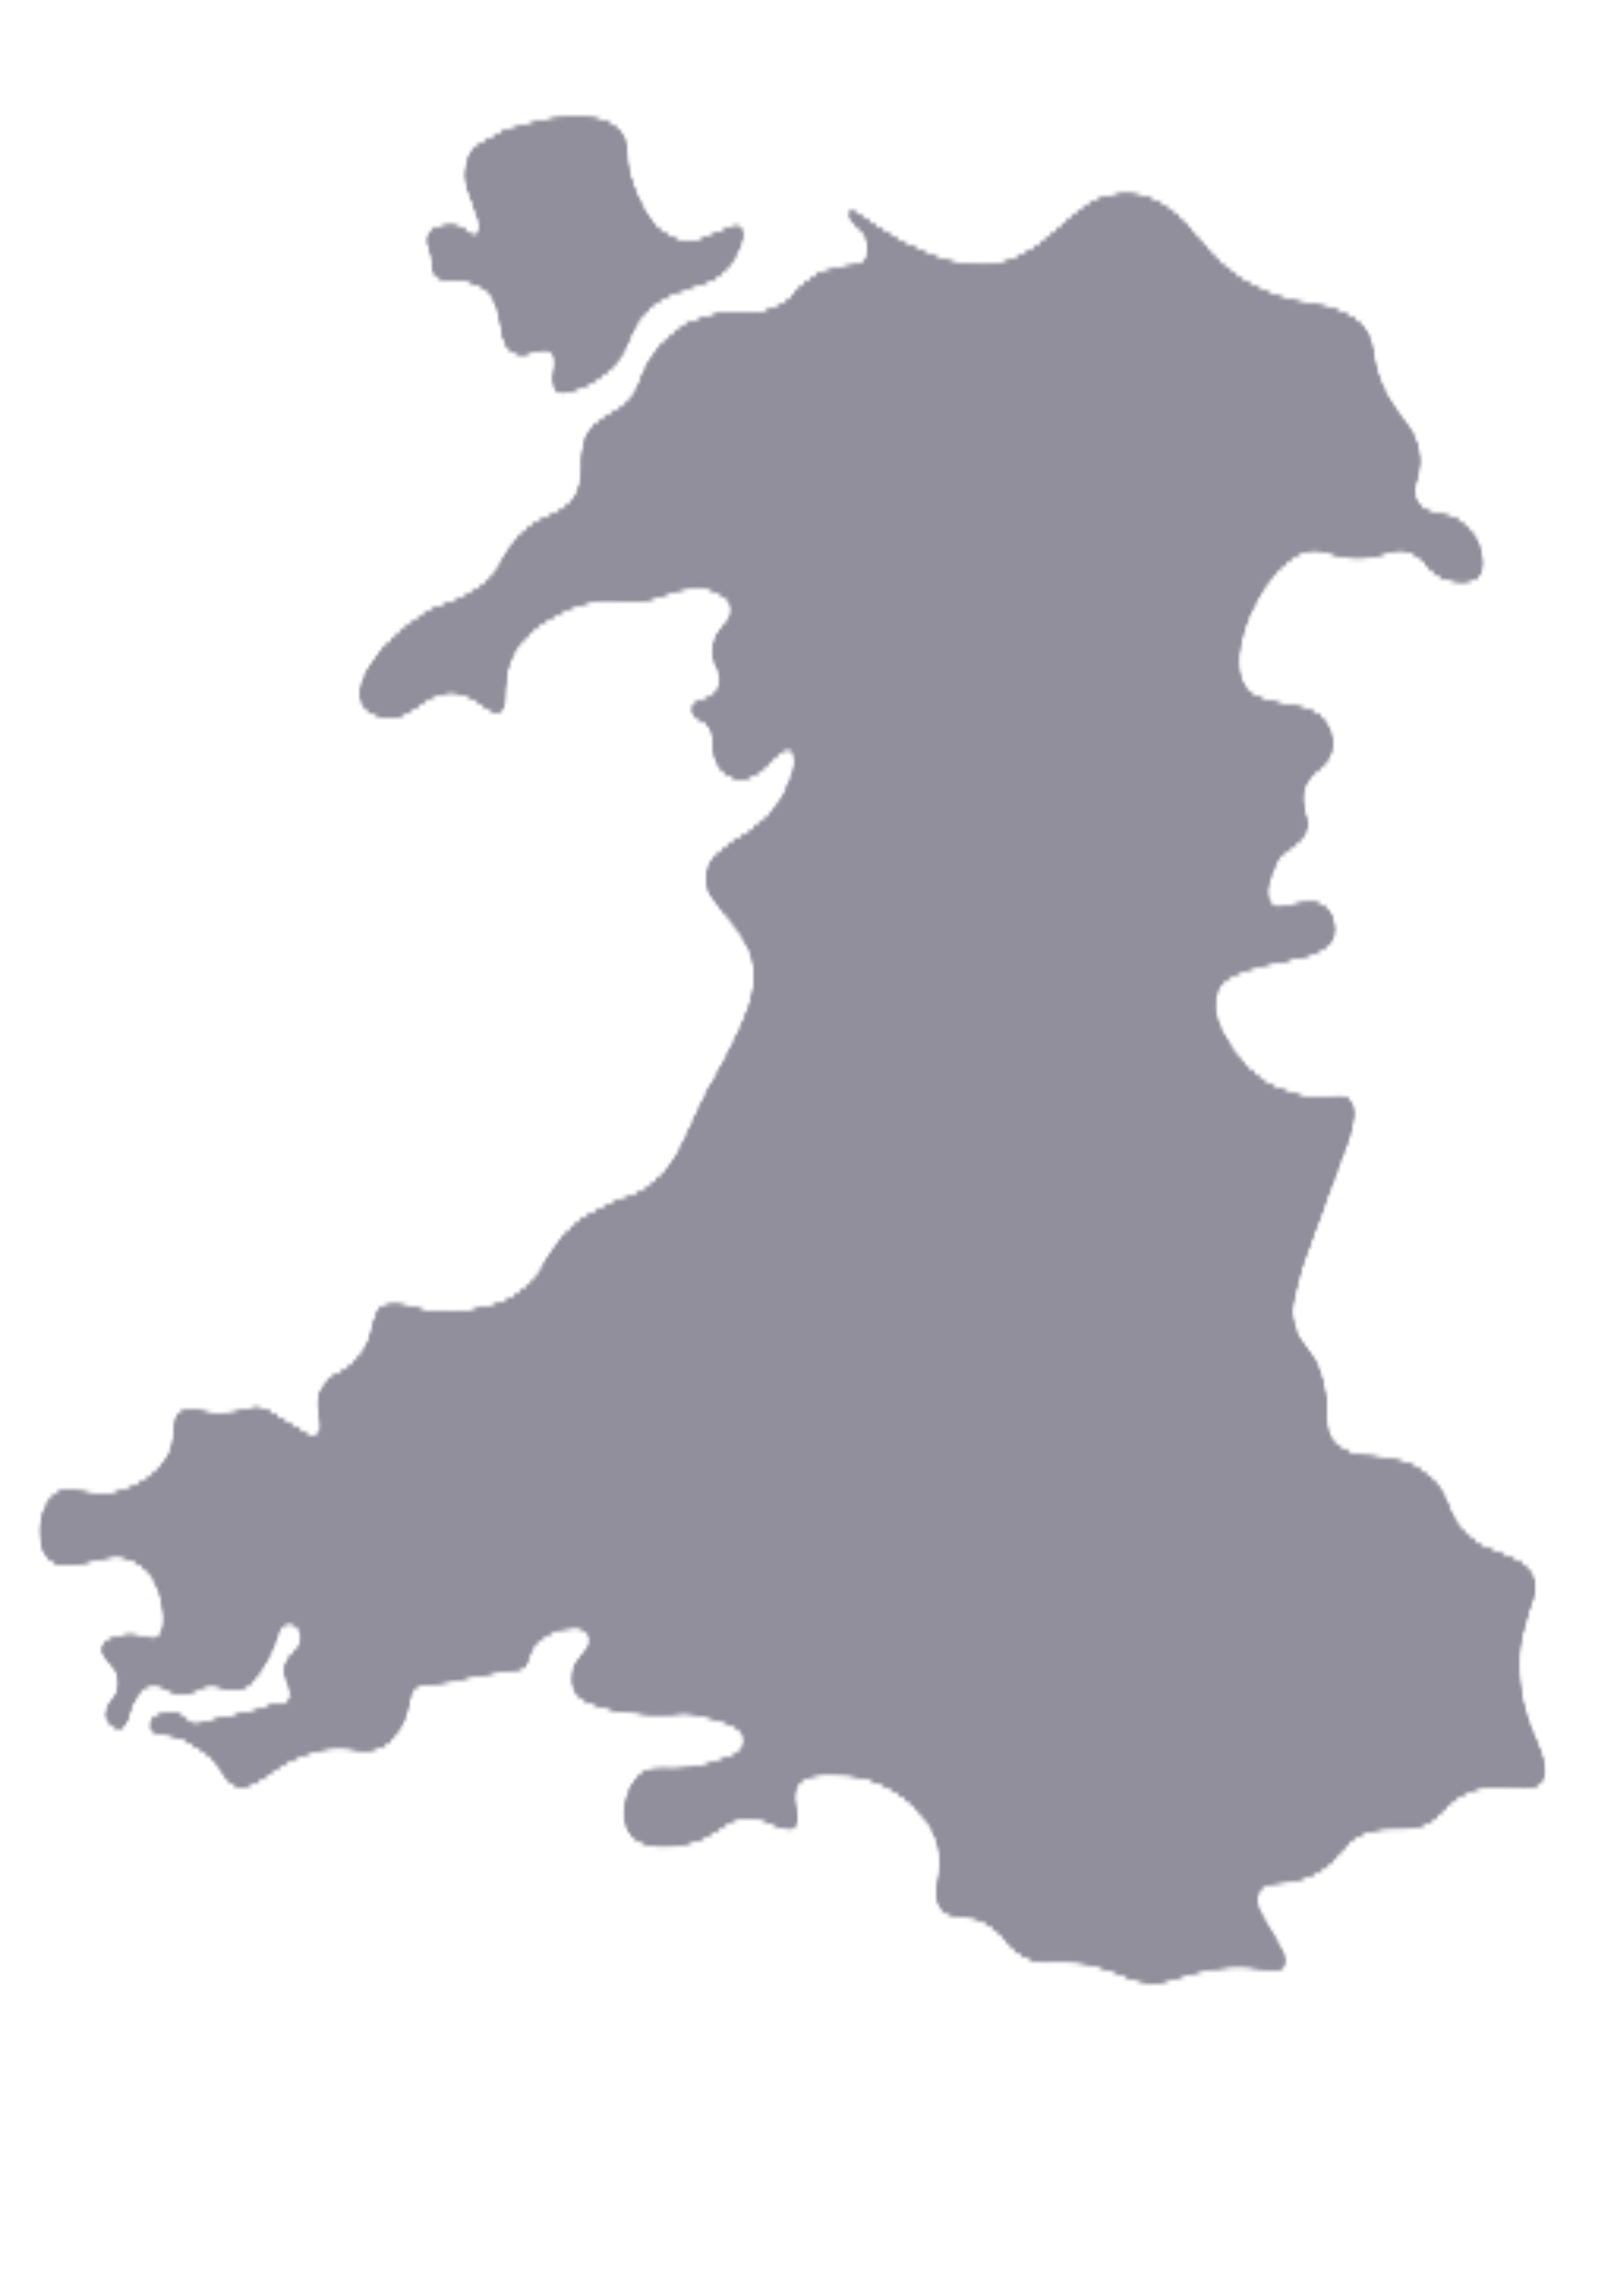
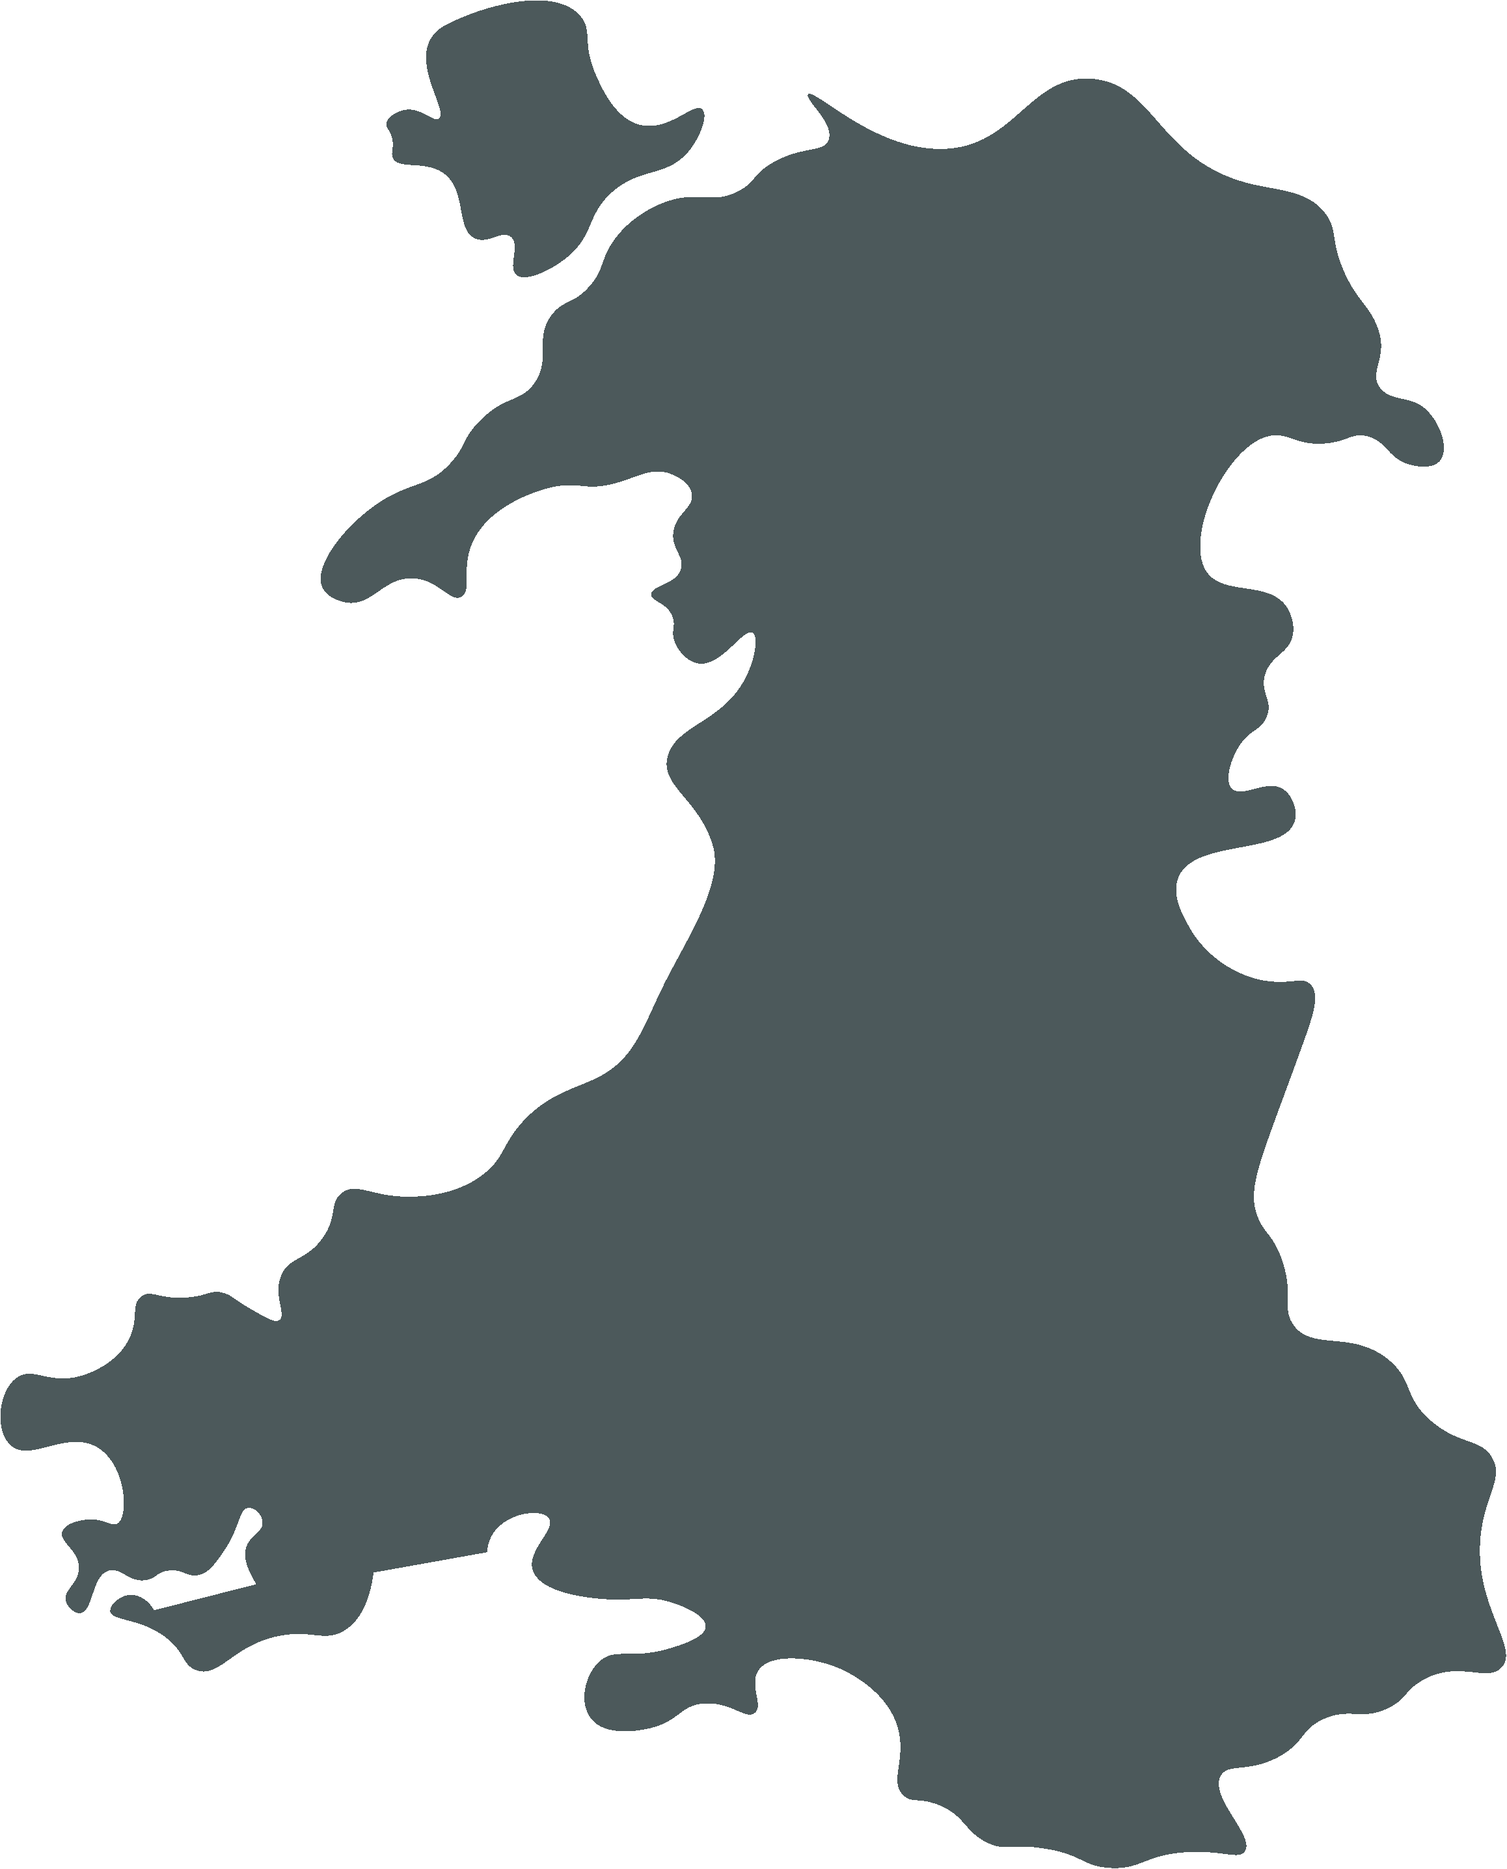
feat: stage progress via country

diff --git a/components/profile/ProgressCarousel.tsx b/components/profile/ProgressCarousel.tsx
@@ -1,6 +1,6 @@
 
 import * as React from "react";
-import { Image, StyleSheet, Text, View } from "react-native";
+import { Image, StyleSheet, useWindowDimensions, View, PixelRatio  } from "react-native";
 import Animated, {
   Extrapolation,
   interpolate,
@@ -13,28 +13,38 @@ import Colors from "@/constants/Colors";
 
 import { Word } from "../../constants/Types";
 import { useWords } from "@/contexts/UserContext";
+import { Text } from "@/components/Themed";
+import { ButtonText, Heading } from "@/components/StyledText";
+
+// npm config set strict-ssl false
 
 type Props = {
-  height?: number;
+  mapHeight?: number;
 };
 
 const MAP_BW = require("@/assets/images/welsh-map-no-background-bw.png");
 const MAP_COLOUR = require("@/assets/images/welsh-map-no-background.png");
 
-export function ProgressCarousel({ height = 400 }: Props) {
+export function ProgressCarousel({ mapHeight = 286 }: Props) {
   const imgW = 2481;
   const imgH = 3508;
   const ASPECT = imgW / imgH;
-  const width = ASPECT * height;
+  const mapWidth = ASPECT * mapHeight;
+
+  const width = Math.min(useWindowDimensions().width, 390);
+
+  const leftMap = (width - mapWidth) / 2;
+
+  const MAPTOPOFFSET = 273;
 
   const { words } = useWords();
 
 //   const wordsSeen = words.filter((w: Word) => w.stage >= 1).length;
 //   const wordsPracticed = words.filter((w: Word) => w.stage >= 2).length;
 //   const wordsMastered = words.filter((w: Word) => w.stage >= 3).length;
-  const wordsSeen = 500;
+  const wordsSeen = words.length;
   const wordsPracticed = 300;
-  const wordsMastered = 100;
+  const wordsMastered = 10;
   const totalWords = words.length || 1;
 
   const metrics = React.useMemo(
@@ -54,6 +64,7 @@ export function ProgressCarousel({ height = 400 }: Props) {
     const input = metrics.map((_, i) => i);          // [0, 1, 2]
     const output = metrics.map((m) => m.ratio);      // [seenRatio, practisedRatio, masteredRatio]
     const r = interpolate(progress.value, input, output, Extrapolation.CLAMP);
+
     return Math.max(0, Math.min(1, r));
   }, [metrics]);
 
@@ -64,44 +75,50 @@ export function ProgressCarousel({ height = 400 }: Props) {
     });
   };
 
+  
   return (
-    <View style={{ width }}>
-      {/* Metric carousel (text only) */}
+  <View>
+    {/* One container that defines the gesture surface size */}
+    <View style={{ position: "relative", height: mapHeight + MAPTOPOFFSET }}>
+      <View pointerEvents="none" style={[styles.metricPercentContainer, { width }]}/>
+
+      {/* Carousel covers metric + map area so you can drag anywhere */}
       <Carousel
         ref={ref}
+        height={mapHeight + MAPTOPOFFSET}
         width={width}
-        height={140}
         data={metrics}
         loop={false}
         onProgressChange={progress}
-
         renderItem={({ item, animationValue }) => (
-            <View style={{ width, height: height + 140 }}>
-            <MetricCard width={width} item={item} animationValue={animationValue} />
-            <MapFill width={width} height={height} fillRatio={fillRatio} />
-            </View>
+          <View style={{ height: mapHeight + MAPTOPOFFSET, alignItems: "center" }}>
+            <MetricCard width={mapWidth} item={item} animationValue={animationValue} />
+          </View>
         )}
-
       />
 
-      {/* Map fill (single map, driven by carousel progress) */}
-      <MapFill
-        width={width}
-        height={height}
-        fillRatio={fillRatio}
-      />
-
-      {/* Dots */}
-      <Pagination.Basic
-        progress={progress}
-        data={metrics}
-        onPress={onPressPagination}
-        containerStyle={styles.dotsContainer}
-        dotStyle={styles.dot}
-        activeDotStyle={styles.activeDot}
-      />
+      {/* Static map overlay, visually fixed, but touch passes through */}
+      <View
+        pointerEvents="none"
+        style={{ position: "absolute", left: leftMap, top: MAPTOPOFFSET, width: mapWidth, height: mapHeight }}
+      >
+        <MapFill width={mapWidth} height={mapHeight} fillRatio={fillRatio} />
+      </View>
     </View>
+
+    {/* Dots */}
+    <Pagination.Basic
+      progress={progress}
+      data={metrics}
+      size={15}
+      onPress={onPressPagination}
+      containerStyle={styles.dotsContainer}
+      dotStyle={styles.dot}
+      activeDotStyle={styles.activeDot}
+    />
+  </View>
   );
+
 }
 
 function MetricCard({
@@ -125,9 +142,9 @@ function MetricCard({
 
   return (
     <Animated.View style={[styles.metricCard, { width }, animStyle]}>
-      <Text style={styles.metricPercent}>{percent}%</Text>
-      <Text style={styles.metricSub}>of total words</Text>
-      <Text style={styles.metricLabel}>{item.label}</Text>
+      <Heading style={styles.metricPercent}>{percent}%</Heading>
+      <ButtonText style={styles.metricSub}>of total words</ButtonText>
+      <Heading style={styles.metricLabel}>{item.label}</Heading>
     </Animated.View>
   );
 }
@@ -141,34 +158,43 @@ function MapFill({
   height: number;
   fillRatio: Animated.SharedValue<number>;
 }) {
-  // Height of the visible coloured region
-  const maskStyle = useAnimatedStyle(() => {
-    return {
-      height: height * fillRatio.value,
-    };
-  });
 
-  // Keep the coloured image anchored to the bottom as the mask grows
-  const colourImageStyle = useAnimatedStyle(() => {
-    const y = height * (1 - fillRatio.value);
-    return {
-      transform: [{ translateY: -y }],
-    };
-  });
+    const PAD_BOTTOM = 0.06; // tune this
+    const PAD_TOP = 0.06;    // tune this
+    const EFFECTIVE = 1 - PAD_TOP - PAD_BOTTOM;
+
+
+  // Height of the visible coloured region
+const maskStyle = useAnimatedStyle(() => {
+  const fill = PAD_BOTTOM + EFFECTIVE * fillRatio.value;
+  const maskHeight = PixelRatio.roundToNearestPixel(height * fill);
+  return { height: maskHeight };
+});
+
+const colourImageStyle = useAnimatedStyle(() => {
+  const fill = PAD_BOTTOM + EFFECTIVE * fillRatio.value;
+  const maskHeight = PixelRatio.roundToNearestPixel(height * fill);
+  const ty = PixelRatio.roundToNearestPixel(-(height - maskHeight));
+  return { transform: [{ translateY: ty }] };
+});
+
+
+
+  
   
   return (
-    <View style={[styles.mapContainer, { width, height }]} pointerEvents="box-none">
-      <Image pointerEvents="none" source={MAP_BW} style={[styles.mapImage, { width, height }]} />
+  <View style={[styles.mapContainer, { width, height }]} pointerEvents="none">
+    <Animated.Image source={MAP_BW} style={[styles.mapImage, { width, height }]} />
 
-      <Animated.View pointerEvents="none" style={[styles.colourMask, { width }, maskStyle]}>
-        <Animated.Image
-          pointerEvents="none"
-          source={MAP_COLOUR}
-          style={[styles.mapImage, { width, height }, colourImageStyle]}
-        />
-      </Animated.View>
-    </View>
+    <Animated.View style={[styles.colourMask, { width }, maskStyle]}>
+      <Animated.Image
+        source={MAP_COLOUR}
+        style={[styles.mapImage, { width, height }, colourImageStyle]}
+      />
+    </Animated.View>
+  </View>
   );
+
 }
 
 const styles = StyleSheet.create({
@@ -176,13 +202,22 @@ const styles = StyleSheet.create({
     alignItems: "center",
     justifyContent: "center",
   },
+  metricPercentContainer: {
+    position: "absolute",
+    height: 121,
+    top: 0,
+    zIndex: -1000,
+    backgroundColor: Colors.light.darkBackground,
+    width: '100%',
+    borderBottomLeftRadius: 20,
+    borderBottomRightRadius: 20,
+  },
   metricPercent: {
-    fontSize: 52,
-    fontWeight: "700",
-    color: "#2F3A3D",
+    color: "#FFFFFF",
+    margin: 22,
   },
   metricSub: {
-    marginTop: 4,
+    marginTop: 20,
     fontSize: 16,
     color: "#5F6A6D",
   },
@@ -190,14 +225,13 @@ const styles = StyleSheet.create({
     marginTop: 6,
     fontSize: 34,
     fontWeight: "700",
-    color: "#9AA5A8",
+    color: Colors.light.midButtonGradient,
     letterSpacing: 1,
   },
 
   mapContainer: {
     position: "relative",
     overflow: "hidden",
-    borderRadius: 12,
     alignSelf: "center",
   },
   mapImage: {
@@ -214,8 +248,8 @@ const styles = StyleSheet.create({
   },
 
   dotsContainer: {
-    gap: 6,
-    marginTop: 10,
+    gap: 14,
+    marginTop: 35.89,
     justifyContent: "center",
   },
   dot: {

diff --git a/app/(tabs)/profileTab.tsx b/app/(tabs)/profileTab.tsx
@@ -24,8 +24,8 @@ export default function ProfileScreen() {
     <ScrollView contentContainerStyle={styles.container}>
       <View style={styles.main}>
         <ProgressCarousel />
-        <WordProgressPieChart words={words} />
-        <WeeklyProgressChart />
+        {/* <WordProgressPieChart words={words} /> */}
+        {/* <WeeklyProgressChart /> */}
 
         <View style={styles.card}>
           <Heading style={styles.cardTitle}>Your Caravan</Heading>
@@ -65,6 +65,7 @@ const styles = StyleSheet.create({
     backgroundColor: Colors.light.background, 
     borderRadius: 12, 
     padding: 16, 
+    marginTop: 20,
     shadowColor: '#000', 
     shadowOffset: { width: 0, height: 4 }, 
     shadowOpacity: 0.1, 

diff --git a/constants/Colors.ts b/constants/Colors.ts
@@ -8,13 +8,14 @@ export default {
     background: '#fff',
     upperButtonGradient: '#93A7B1',
     lowerButtonGradient: '#BACAC1',
-    midButtonGradient: '#A8BAB9',
+    midButtonGradient: '#9DB0B5',
     correct: '#92A56E',
     incorrect: '#9D491B',
     button: "#A8BABA",
     tint: tintColorLight,
     tabIconDefault: '#fff',
     tabIconSelected: tintColorLight,
+    darkBackground: '#4C595B',
   },
   dark: {
     text: '#fff',

diff --git a/components/StyledText.tsx b/components/StyledText.tsx
@@ -10,3 +10,10 @@ export function Heading(props: TextProps) {
     fontSize: 64,
    }]} />;
 }
+
+export function ButtonText(props: TextProps) {
+  return <Text {...props} style={[props.style, { 
+    fontSize: 27,
+    fontWeight: '400',
+   }]} />;
+}
